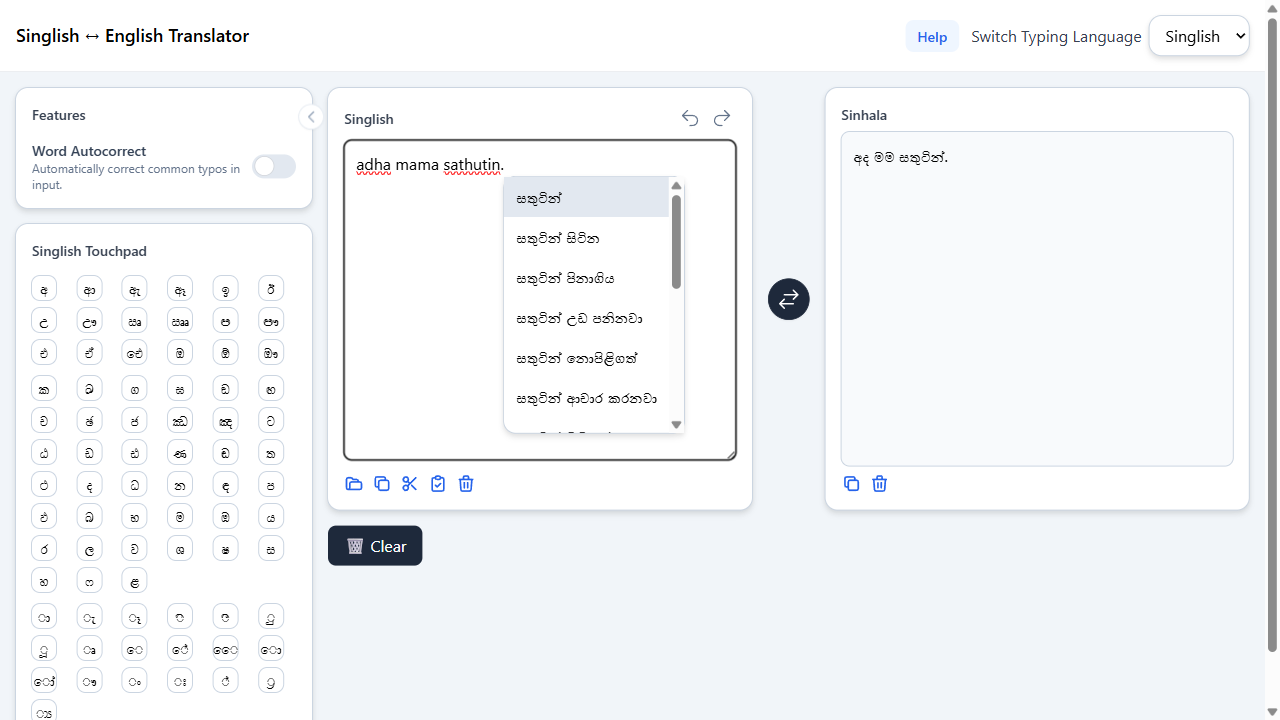
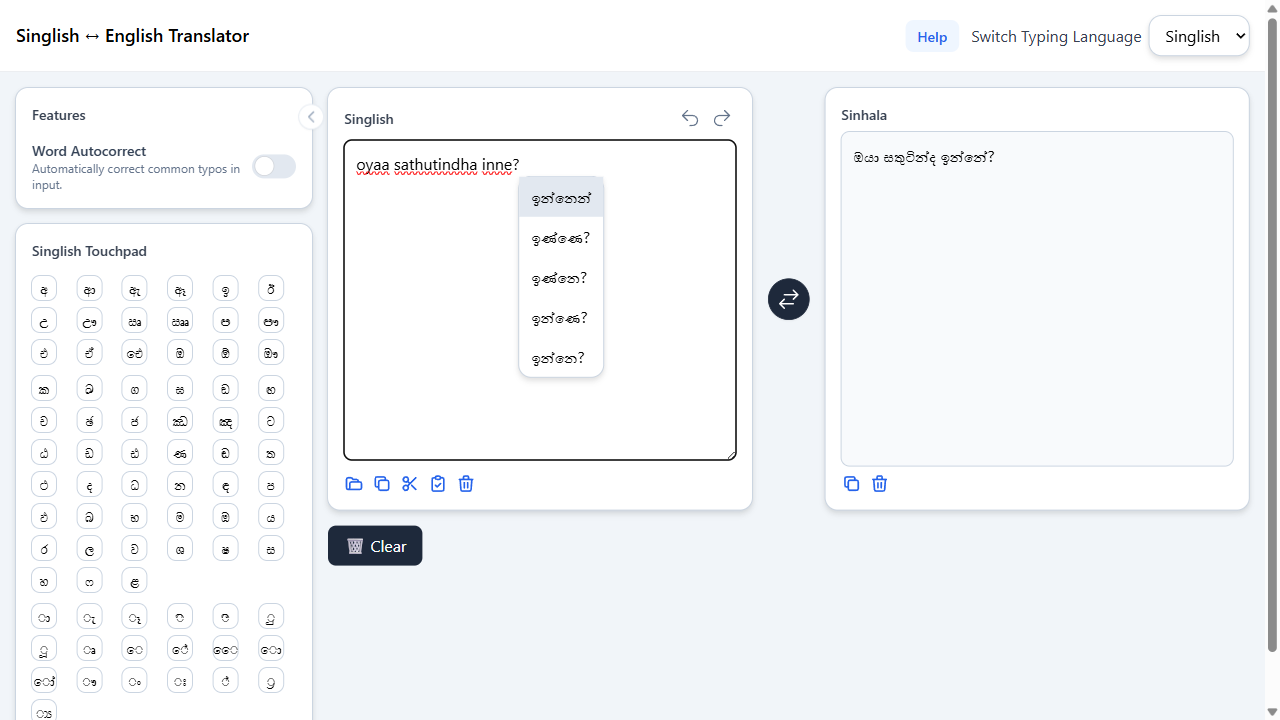
'lll'

diff --git a/tests/positive.spec.js b/tests/positive.spec.js
@@ -1,6 +1,6 @@
 const { test, expect } = require('@playwright/test');
 
-// You can expand this array to include all 34+ required scenarios
+
 const scenarios = [
   { 
     id: 'Pos_Fun_0001', 
@@ -11,8 +11,8 @@ const scenarios = [
   { 
     id: 'Pos_Fun_0002', 
     name: 'Simple Expression of Feeling', 
-    input: 'adha mama sathutin.', 
-    expected: 'අද මම සතුටින්' 
+    input: 'oyaa sathutindha inne?', 
+    expected: 'ඔයා සතුටින්ද ඉන්නෙ?' 
   },
   { 
     id: 'pos_Fun_0003', 
@@ -25,61 +25,61 @@ const scenarios = [
     id: 'pos_Fun_0004', 
     name: 'Present Tense variations', 
     input: 'nQQgi paadam karanavaa.', 
-    expected: 'නංගි පාඩම් කරනවා.' // This WILL FAIL because empty input won't produce this word
+    expected: 'නංගි පාඩම් කරනවා.' 
   },
   { 
     id: 'pos_Fun_0005', 
     name: 'Future Tense variations', 
     input: 'api adha raee kaeema kannemu.', 
-    expected: 'අපි අද රෑ කෑම කන්නෙමු.' // This WILL FAIL if the translator doesn't result in 'කනවා'
+    expected: 'අපි අද රෑ කෑම කන්නෙමු.' 
   },
   { 
     id: 'pos_Fun_0006', 
     name: 'Negation patterns', 
     input: 'mama ohuva aeththatama vishvaasa karannee naehae', 
-    expected: 'මම ඔහුව ඇත්තටම විශ්වාස කරන්නේ නැහැ' // This WILL FAIL because 'hggfff' is nonsense
+    expected: 'මම ඔහුව ඇත්තටම විශ්වාස කරන්නේ නැහැ' 
   },
   { 
     id: 'pos_Fun_0007', 
     name: 'Multiple spaces', 
     input: 'Lamayi sellam karanavaa.', 
-    expected: 'ළමයි සෙල්ලම් කරනවා.' // This WILL FAIL because 'hggfff' is nonsense
+    expected: 'ළමයි සෙල්ලම් කරනවා.' 
   },
   { 
     id: 'pos_Fun_0008', 
     name: 'Negation patterns', 
     input: 'mata oyaava hamuvenna baee.', 
-    expected: 'මට ඔයාව හමුවෙන්න බෑ.' // This WILL FAIL because 'hggfff' is nonsense
+    expected: 'මට ඔයාව හමුවෙන්න බෑ.' 
   },
   { 
     id: 'pos_Fun_0009', 
     name: 'Slang and colloquial phrasing', 
     input: 'siraavata kiyannam, eyaa hari hoDHAyi.', 
-    expected: 'සිරාවට කියන්නම්, එයා හරි හොඳයි.' // This WILL FAIL because 'hggfff' is nonsense
+    expected: 'සිරාවට කියන්නම්, එයා හරි හොඳයි.' 
   },
   { 
     id: 'pos_Fun_0010', 
     name: 'Repeated word expressions', 
     input: 'oyaa oyaa', 
-    expected: 'ඔයා ඔයා' // This WILL FAIL because 'hggfff' is nonsense
+    expected: 'ඔයා ඔයා' 
   },
   { 
     id: 'pos_Fun_0011', 
     name: 'English abbreviations and short forms', 
     input: 'mata ATM ekata yanna oona.', 
-    expected: 'මට ATM එකට යන්න ඕන.' // This WILL FAIL because 'hggfff' is nonsense
+    expected: 'මට ATM එකට යන්න ඕන.' 
   },
   { 
     id: 'pos_Fun_0012', 
     name: 'English technical/brand terms', 
     input: 'mata Facebook account ekata login venna baehae. Password eka hariyenma thibbaa nam?', 
-    expected: 'මට Facebook account එකට login වෙන්න බැහැ. Password එක හරියෙන්ම තිබ්බා නම්?' // This WILL FAIL because 'hggfff' is nonsense
+    expected: 'මට Facebook account එකට login වෙන්න බැහැ. Password එක හරියෙන්ම තිබ්බා නම්?' 
   },
   { 
     id: 'pos_Fun_00013', 
     name: 'Currency, time formats, dates, and units of measurement', 
     input: 'mama pebaravaari 20 laa book gaththaa. Price eka unaa Rs.1500. Library open udhee 7.00 AM. Pens 10 pcs ganna mama shop yamu.', 
-    expected: 'මම පෙබරවාරි 20 ලා book ගත්තා. Price එක උනා Rs.1500. Library open උදේ 7.00 AM. Pens 10 pcs ගන්න මම shop යමු.' // This WILL FAIL because 'hggfff' is nonsense
+    expected: 'මම පෙබරවාරි 20 ලා book ගත්තා. Price එක උනා Rs.1500. Library open උදේ 7.00 AM. Pens 10 pcs ගන්න මම shop යමු.' 
   },
 
    {
